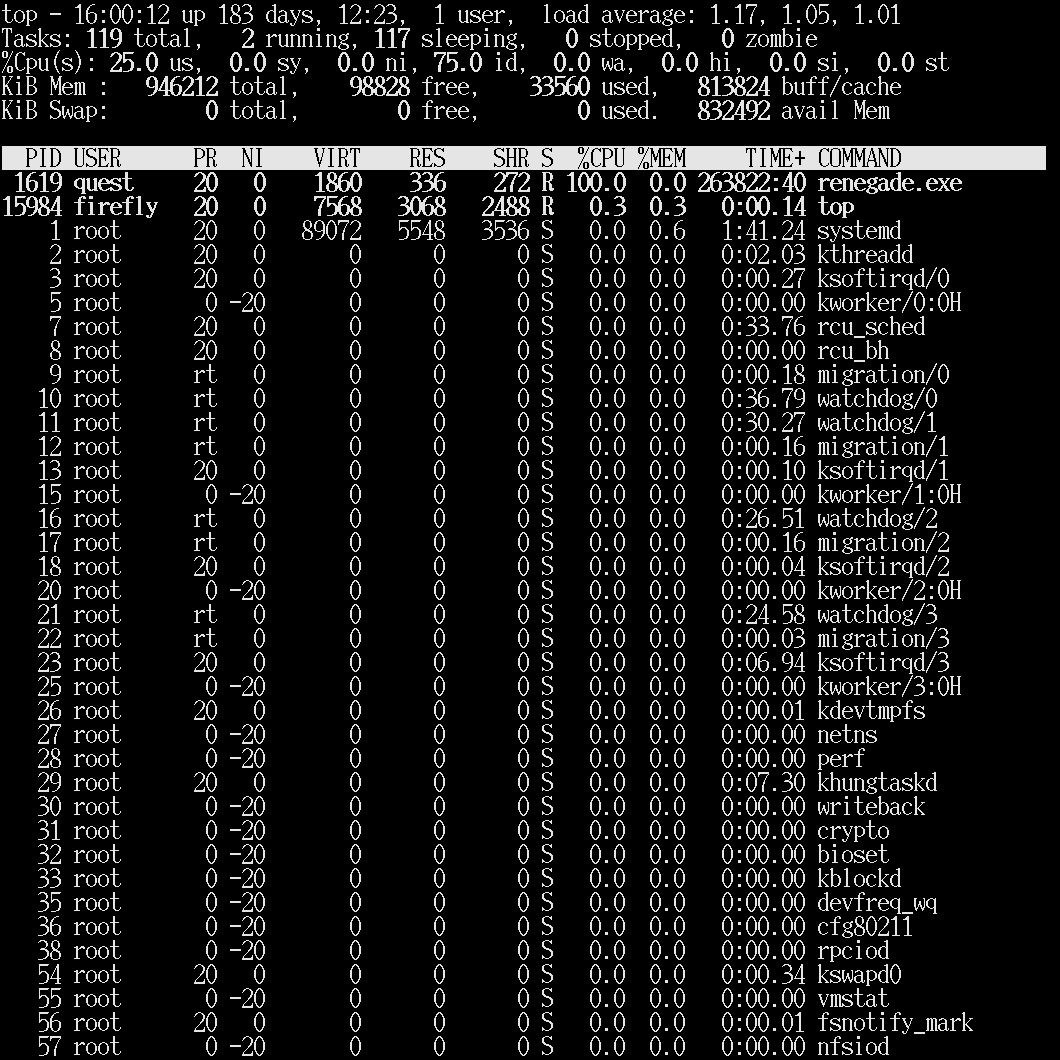
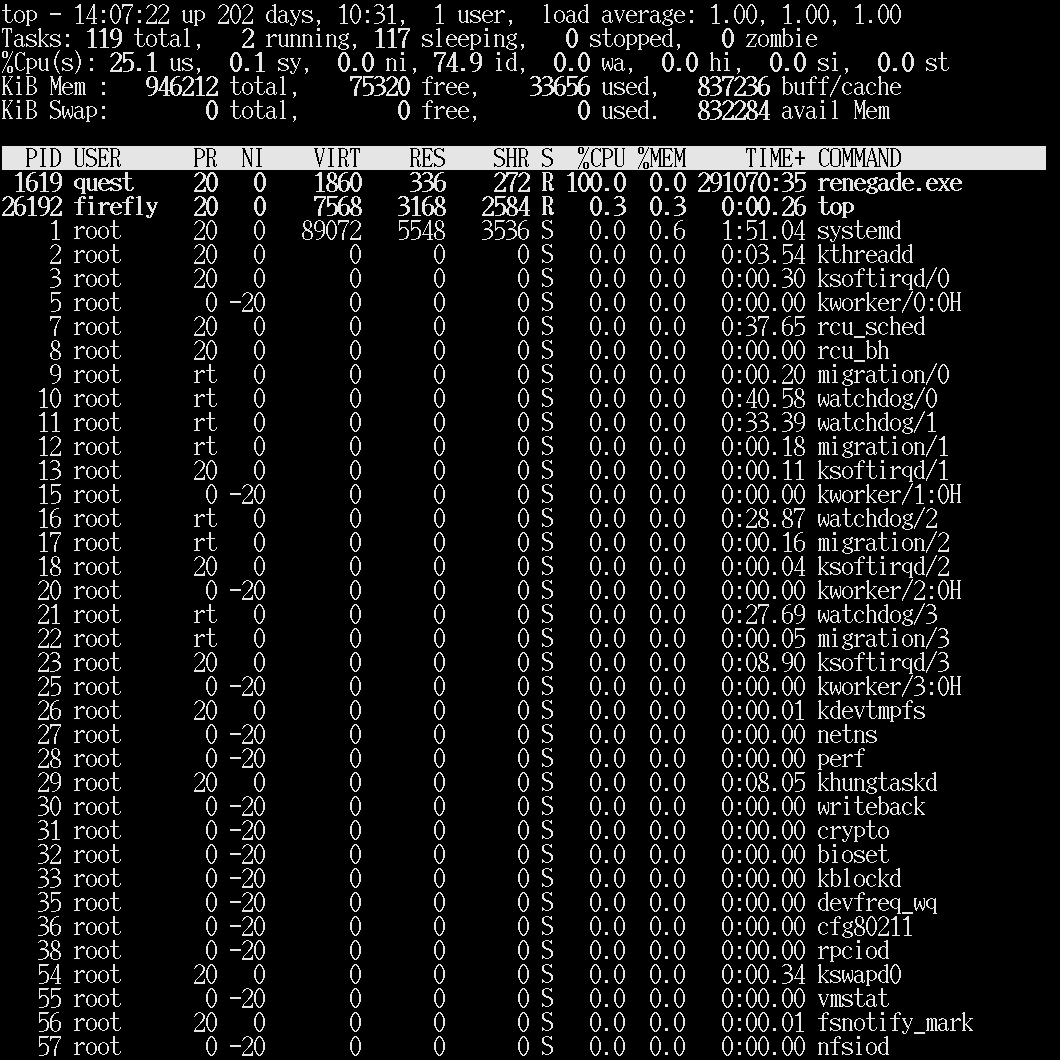
day19 brute-force progress update

diff --git a/2018/19/Readme.md b/2018/19/Readme.md
@@ -1,5 +1,5 @@
 Just to see how long it would take to find this answer without reverse-engineering, I compiled my solution to part two and set it running on [my libre renegade](https://gitlab.com/imhoffman/fa19b2-ind3156/wikis/guides/communal).
-It has been going for nearly 183 days, at time of writing!
+It has been going for over 200 days, at time of writing!
 I'll keep you posted.
 
 ![day19.png](day19.png)
